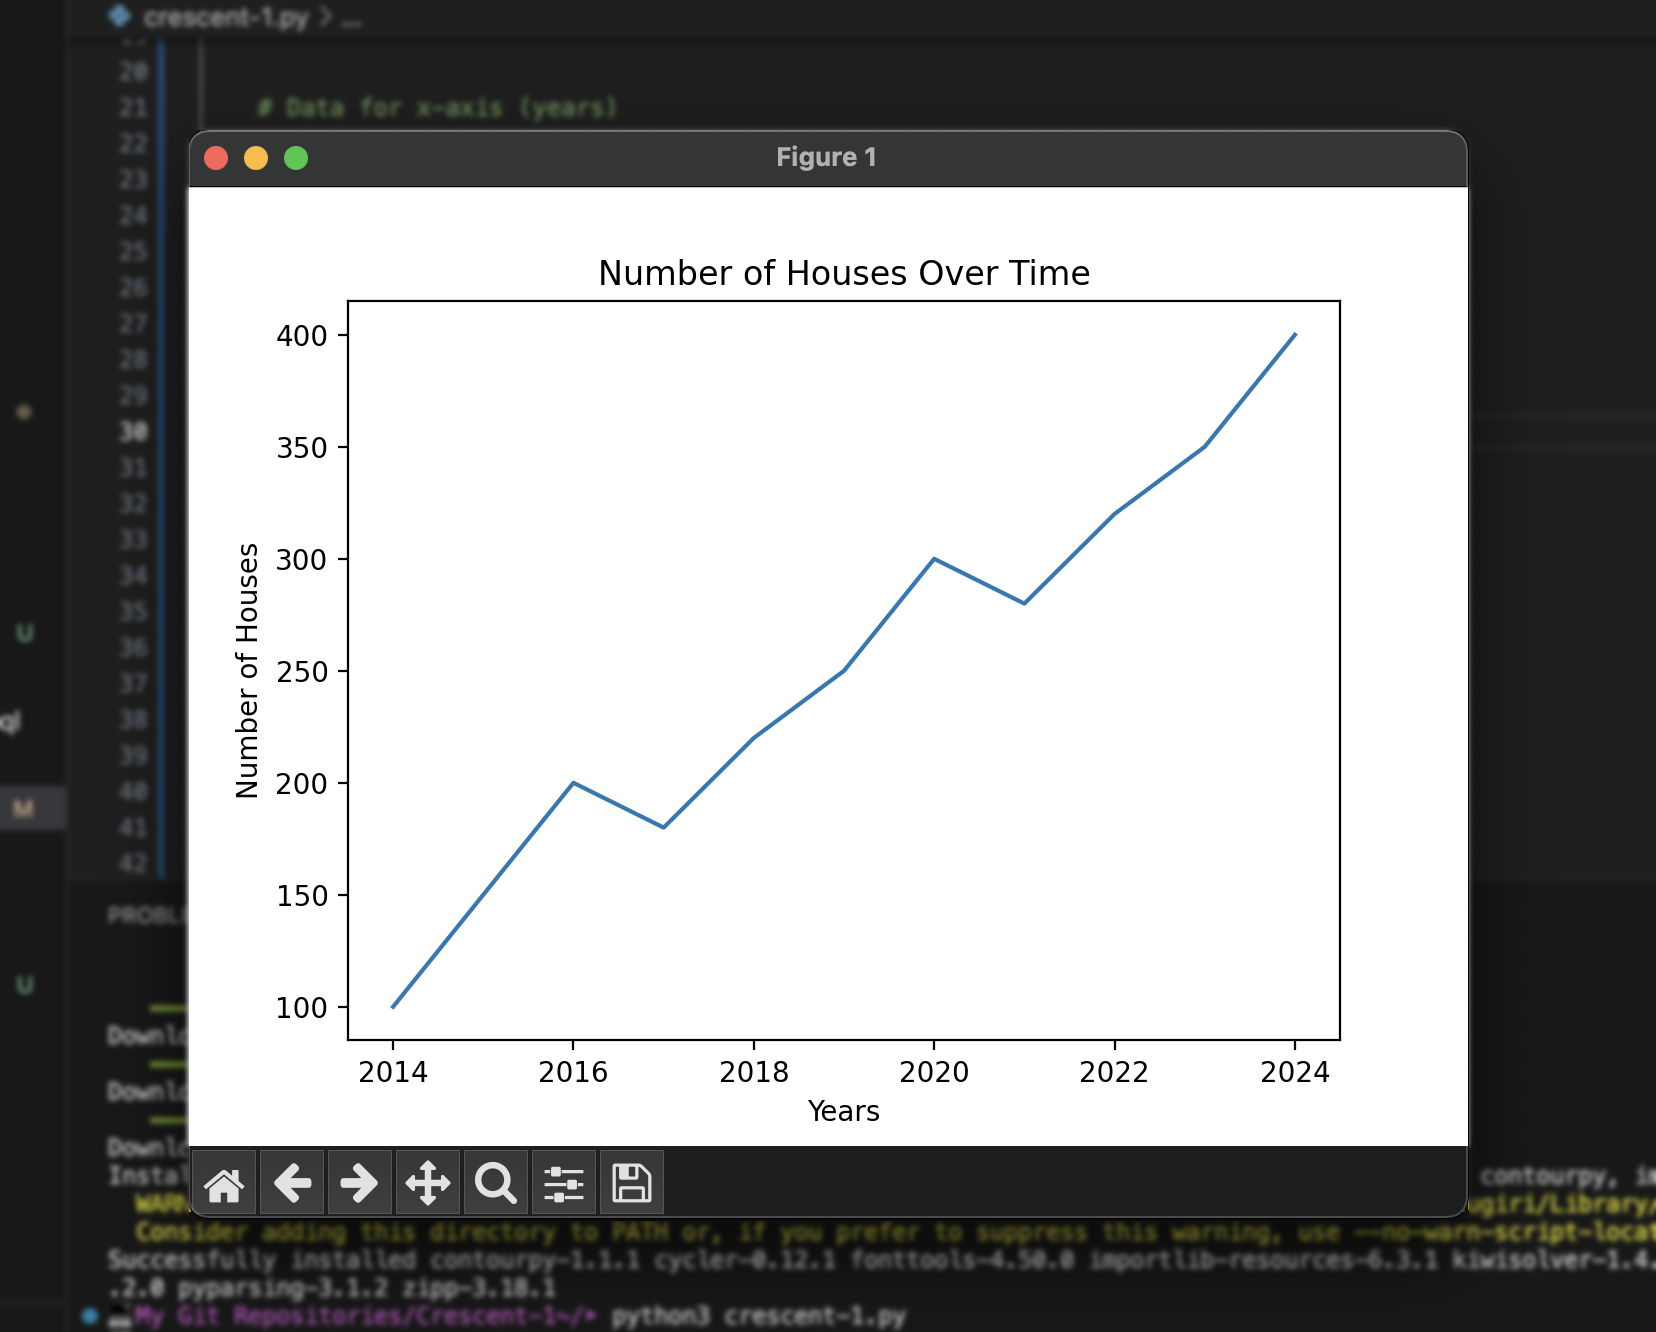
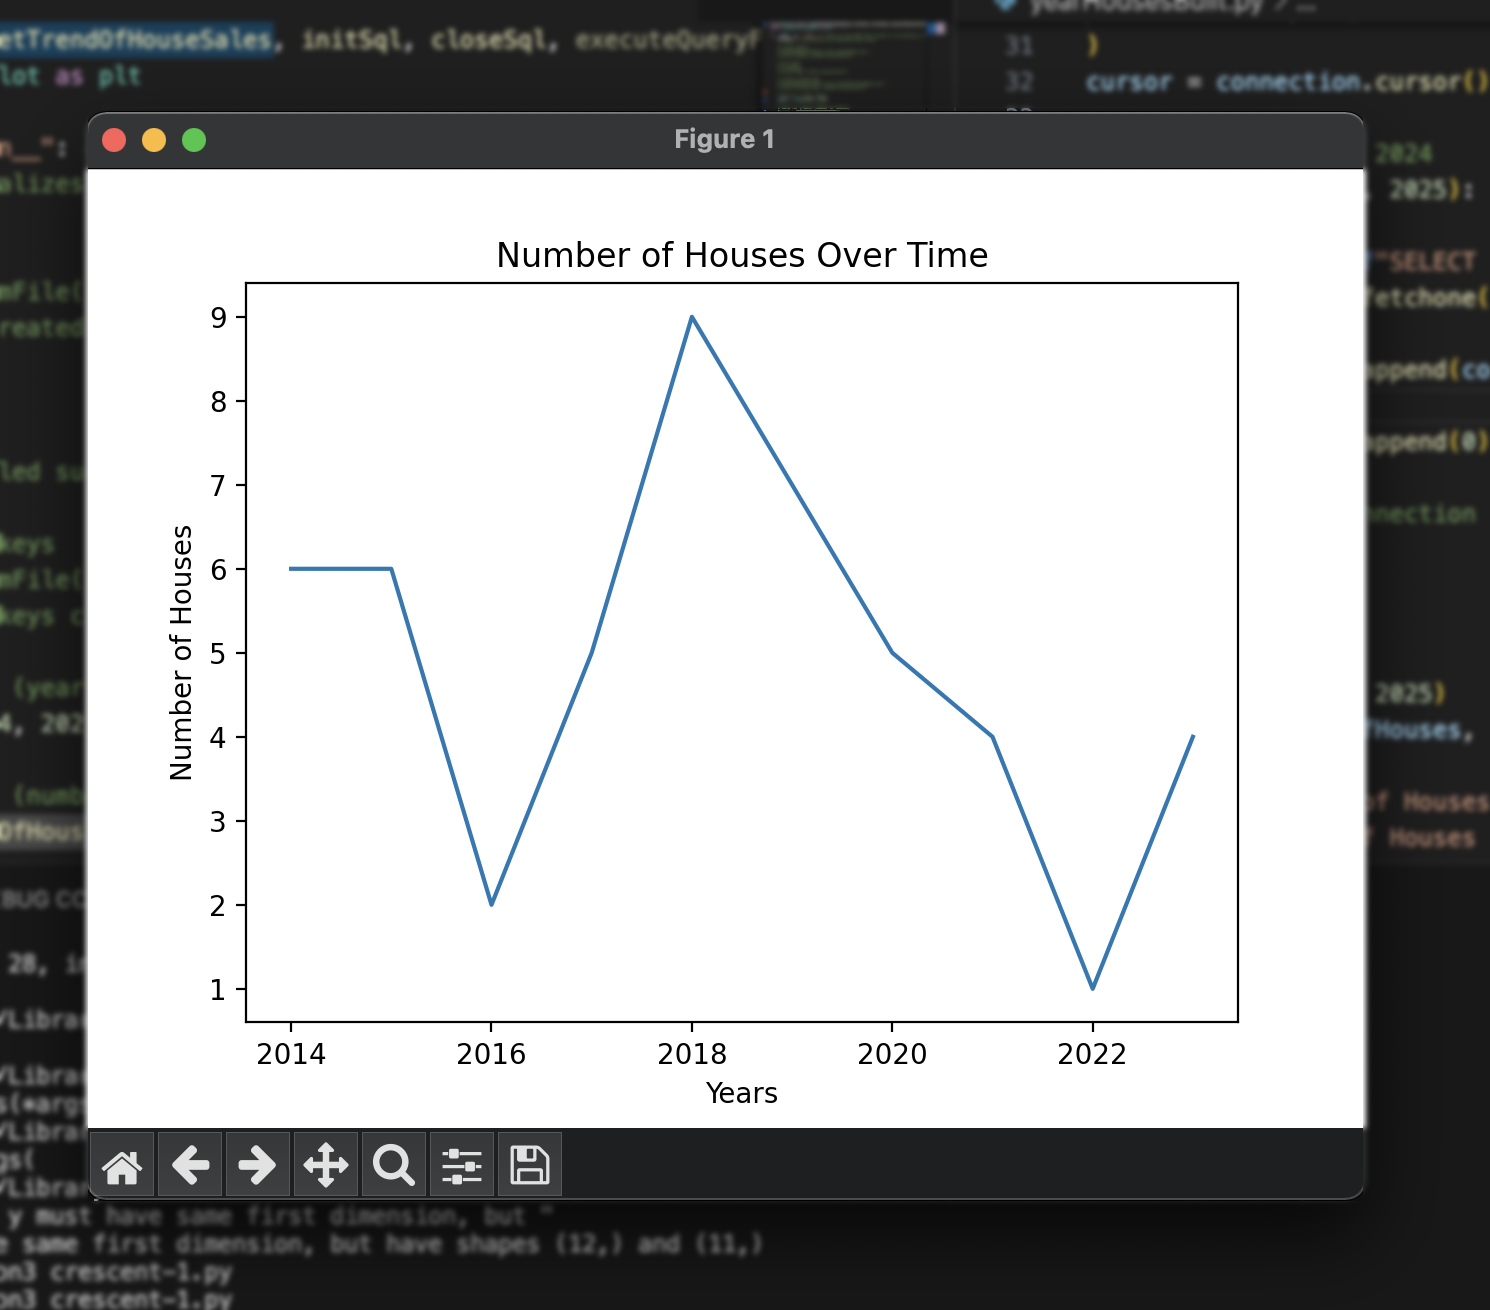
now it shows trend of how many houses were sold each year from 2014 to 2024

diff --git a/crescent-1.py b/crescent-1.py
@@ -1,5 +1,5 @@
 from queries import initSql, closeSql, executeQueryFromFile, fillData
-import matplotlib.pyplot as plt
+from trends import drawPlotOfHouseSales
 
 if __name__ == "__main__": # this is true when this script is run directly, used for main entry point
     initSql() # initializes the connection and cursor
@@ -16,33 +16,7 @@ if __name__ == "__main__": # this is true when this script is run directly, used
     # executeQueryFromFile('sql/createAllForeignKeys.sql')
     # print("Foreign keys created successfully")
 
-    
-
-    # Data for x-axis (years)
-    years = range(2014, 2025)
-
-    # Data for y-axis (number of houses)
-    houses = [100, 150, 200, 180, 220, 250, 300, 280, 320, 350, 400]
-
-    # Create the line graph
-    plt.plot(years, houses)
-
-    # Set the labels for x-axis and y-axis
-    plt.xlabel('Years')
-    plt.ylabel('Number of Houses')
-
-    # Set the title of the graph
-    plt.title('Number of Houses Over Time')
-
-    # Display the graph
-    plt.show()
-
-
-
-
-
-
-
+    drawPlotOfHouseSales()
 
     # wait for user
     # input("Press Enter to continue..., all created tables will be deleted")

diff --git a/queries.py b/queries.py
@@ -57,6 +57,19 @@ def fillData():
     header = "use crescent1;\ninsert into HouseMaterials (house_id, supplier_id, material_id, how_many)\n values"
     sendQueryFromCsv('data/HouseMaterials.csv', header)
 
+def getTrendOfHouseSales():
+    # get the trend of house sales from 2014 to 2024
+    # placeholder
+    noOfHouses = []
+    for i in range(2014, 2024):
+        cursor.execute(f"select count(*) from Sales where year(sale_date) = {i}")
+        count = cursor.fetchone()[0]
+        if (count > 0):
+            noOfHouses.append(count)
+        else:
+            noOfHouses.append(0)
+    return noOfHouses
+
 def sendQueryFromCsv(_csvfile,_header):
     queryString = _header
 

diff --git a/trends.py b/trends.py
@@ -1,0 +1,22 @@
+import matplotlib.pyplot as plt
+from queries import getTrendOfHouseSales 
+
+def drawPlotOfHouseSales():
+    # Data for x-axis (years)
+    years = range(2014, 2024)
+
+    # Data for y-axis (number of houses)
+    houses = getTrendOfHouseSales()
+
+    # Create the line graph
+    plt.plot(years, houses)
+
+    # Set the labels for x-axis and y-axis
+    plt.xlabel('Years')
+    plt.ylabel('Number of Houses')
+
+    # Set the title of the graph
+    plt.title('Number of Houses Over Time')
+
+    # Display the graph
+    plt.show()

diff --git a/readme.md b/readme.md
@@ -5,6 +5,8 @@
 ## Introduction
 This program demonstrates how Python is used to send SQL queries to a database for data analysis. It is capable of producing data trends, which are useful for studying the performance of a project. In this case, we have mock data for a building company that builds houses.
 
+![EER Diagram](EER.png)
+
 ## Installation
 This project requires matplotlib and sql-connector-python to be installed. <br>
 `> pip3 sql-connector-python`<br>
